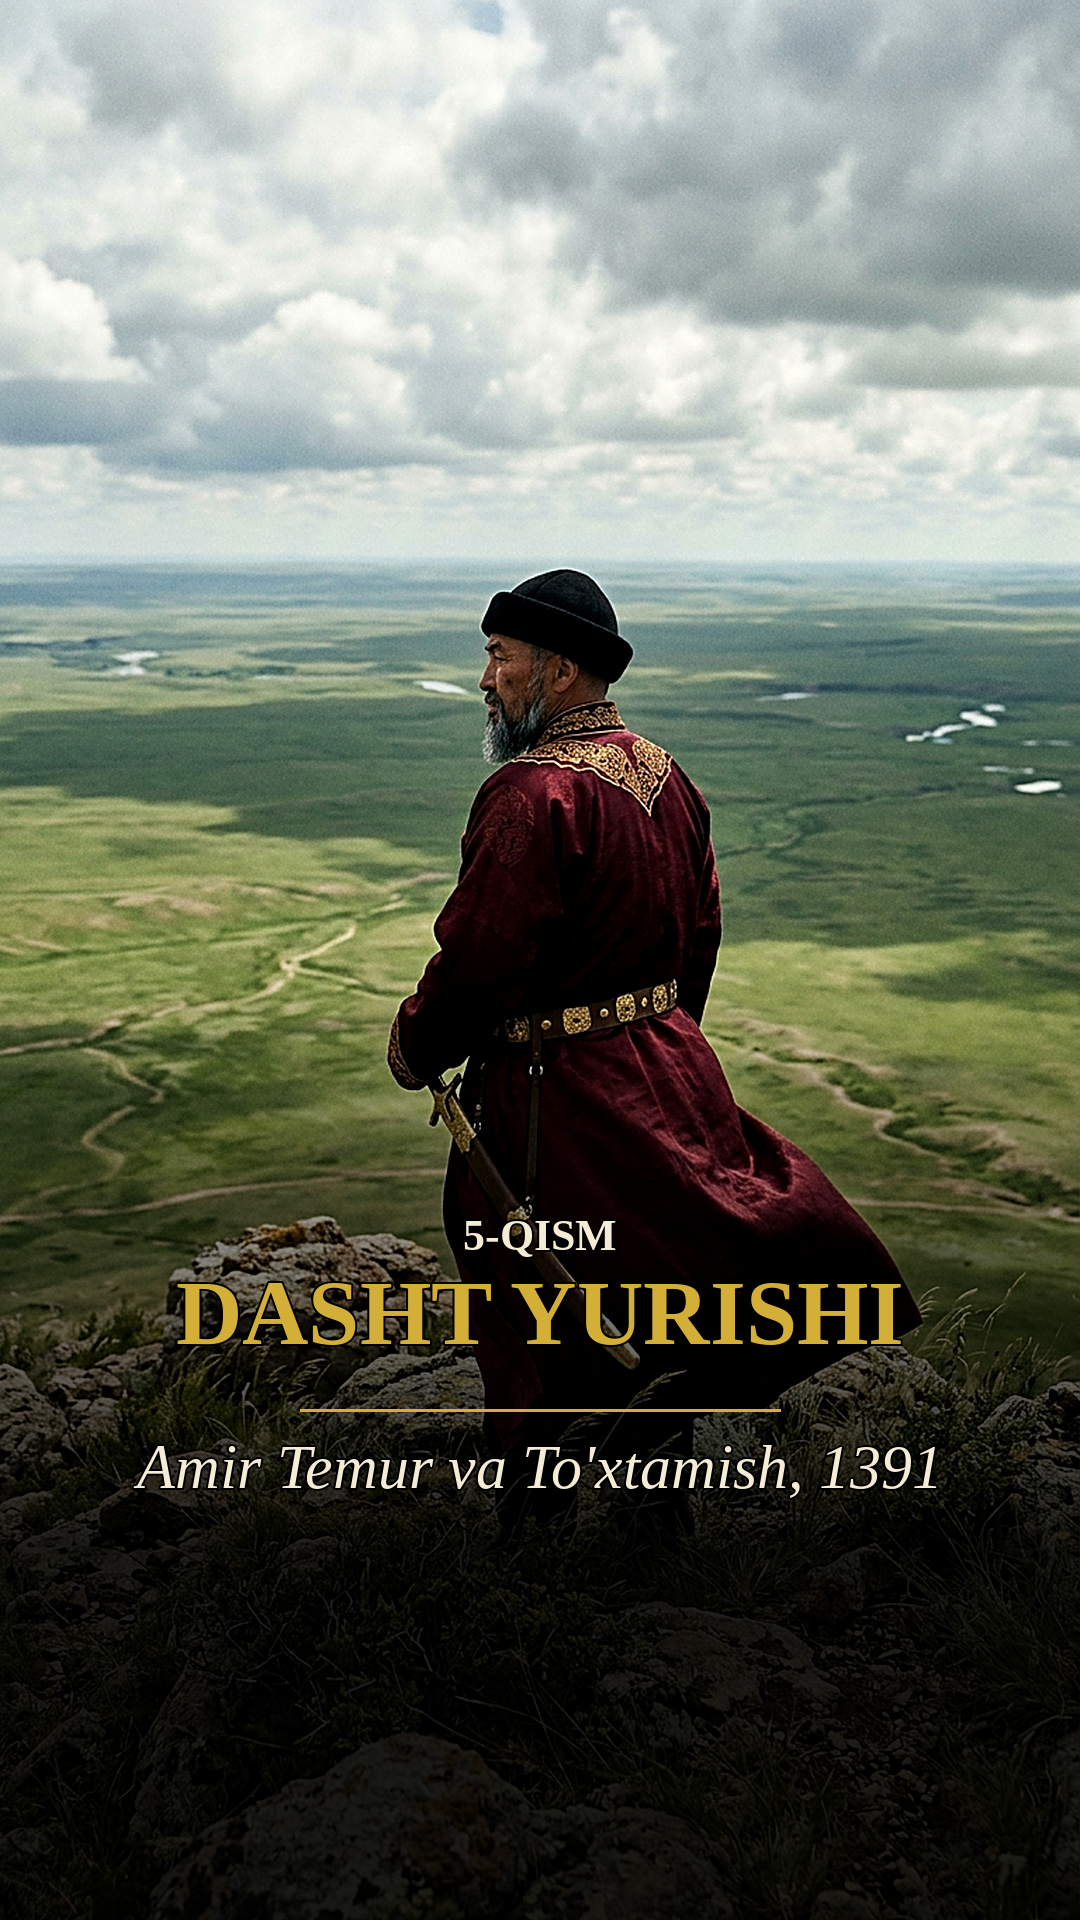
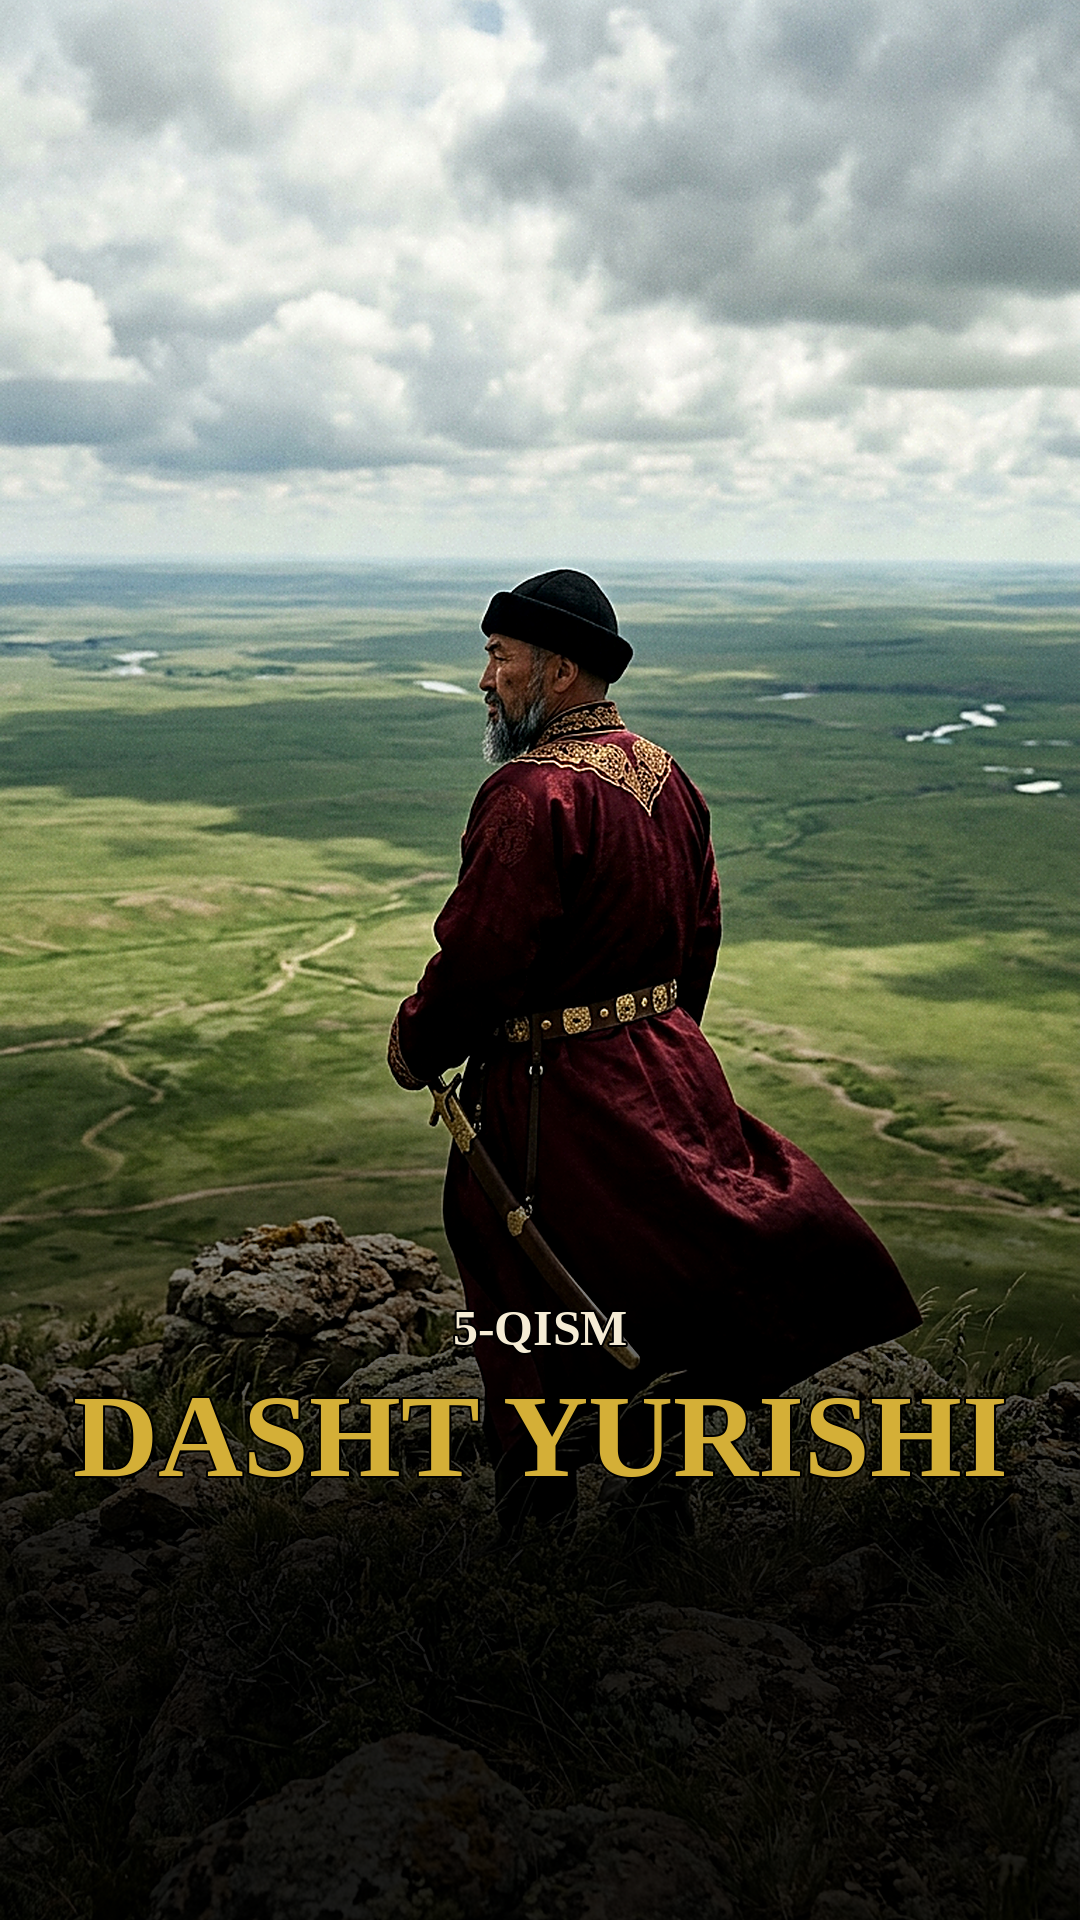
5-qism muqovasi: faqat qism raqami va sarlavha
Claude-Session: https://claude.ai/code/session_01TTDtXCNYS44hg5aPsZctEV

Changed region(s): [[0.0611, 0.625, 0.9472, 0.7812]]

diff --git a/video/edit/insta_cover_p5.py b/video/edit/insta_cover_p5.py
@@ -19,9 +19,8 @@ for y in range(950, 1920):
 cov = Image.alpha_composite(base.convert('RGBA'), ov); d = ImageDraw.Draw(cov)
 def centered(text, font, y, fill):
     w = d.textbbox((0, 0), text, font=font)[2]; d.text(((1080 - w) / 2, y), text, font=font, fill=fill, stroke_width=2, stroke_fill=(0, 0, 0))
-centered('5-QISM', ImageFont.truetype(B, 44), 1210, CREAM)
-centered("DASHT YURISHI", ImageFont.truetype(B, 92), 1262, GOLD)
-d.line((300, 1410, 780, 1410), fill=GOLD, width=3)
-centered("Amir Temur va To'xtamish, 1391", ImageFont.truetype(I, 62), 1432, CREAM)
+# minimal (user, 2026-11-16: "too much text"): only the part number and a big title
+centered('5-QISM', ImageFont.truetype(B, 50), 1300, CREAM)
+centered("DASHT YURISHI", ImageFont.truetype(B, 118), 1370, GOLD)
 cov.convert('RGB').save(root / ('instagram/cover_part5' + ('' if len(sys.argv) < 2 or sys.argv[1] == 'm16' else '_' + sys.argv[1]) + '.png'))
 print('ok')
